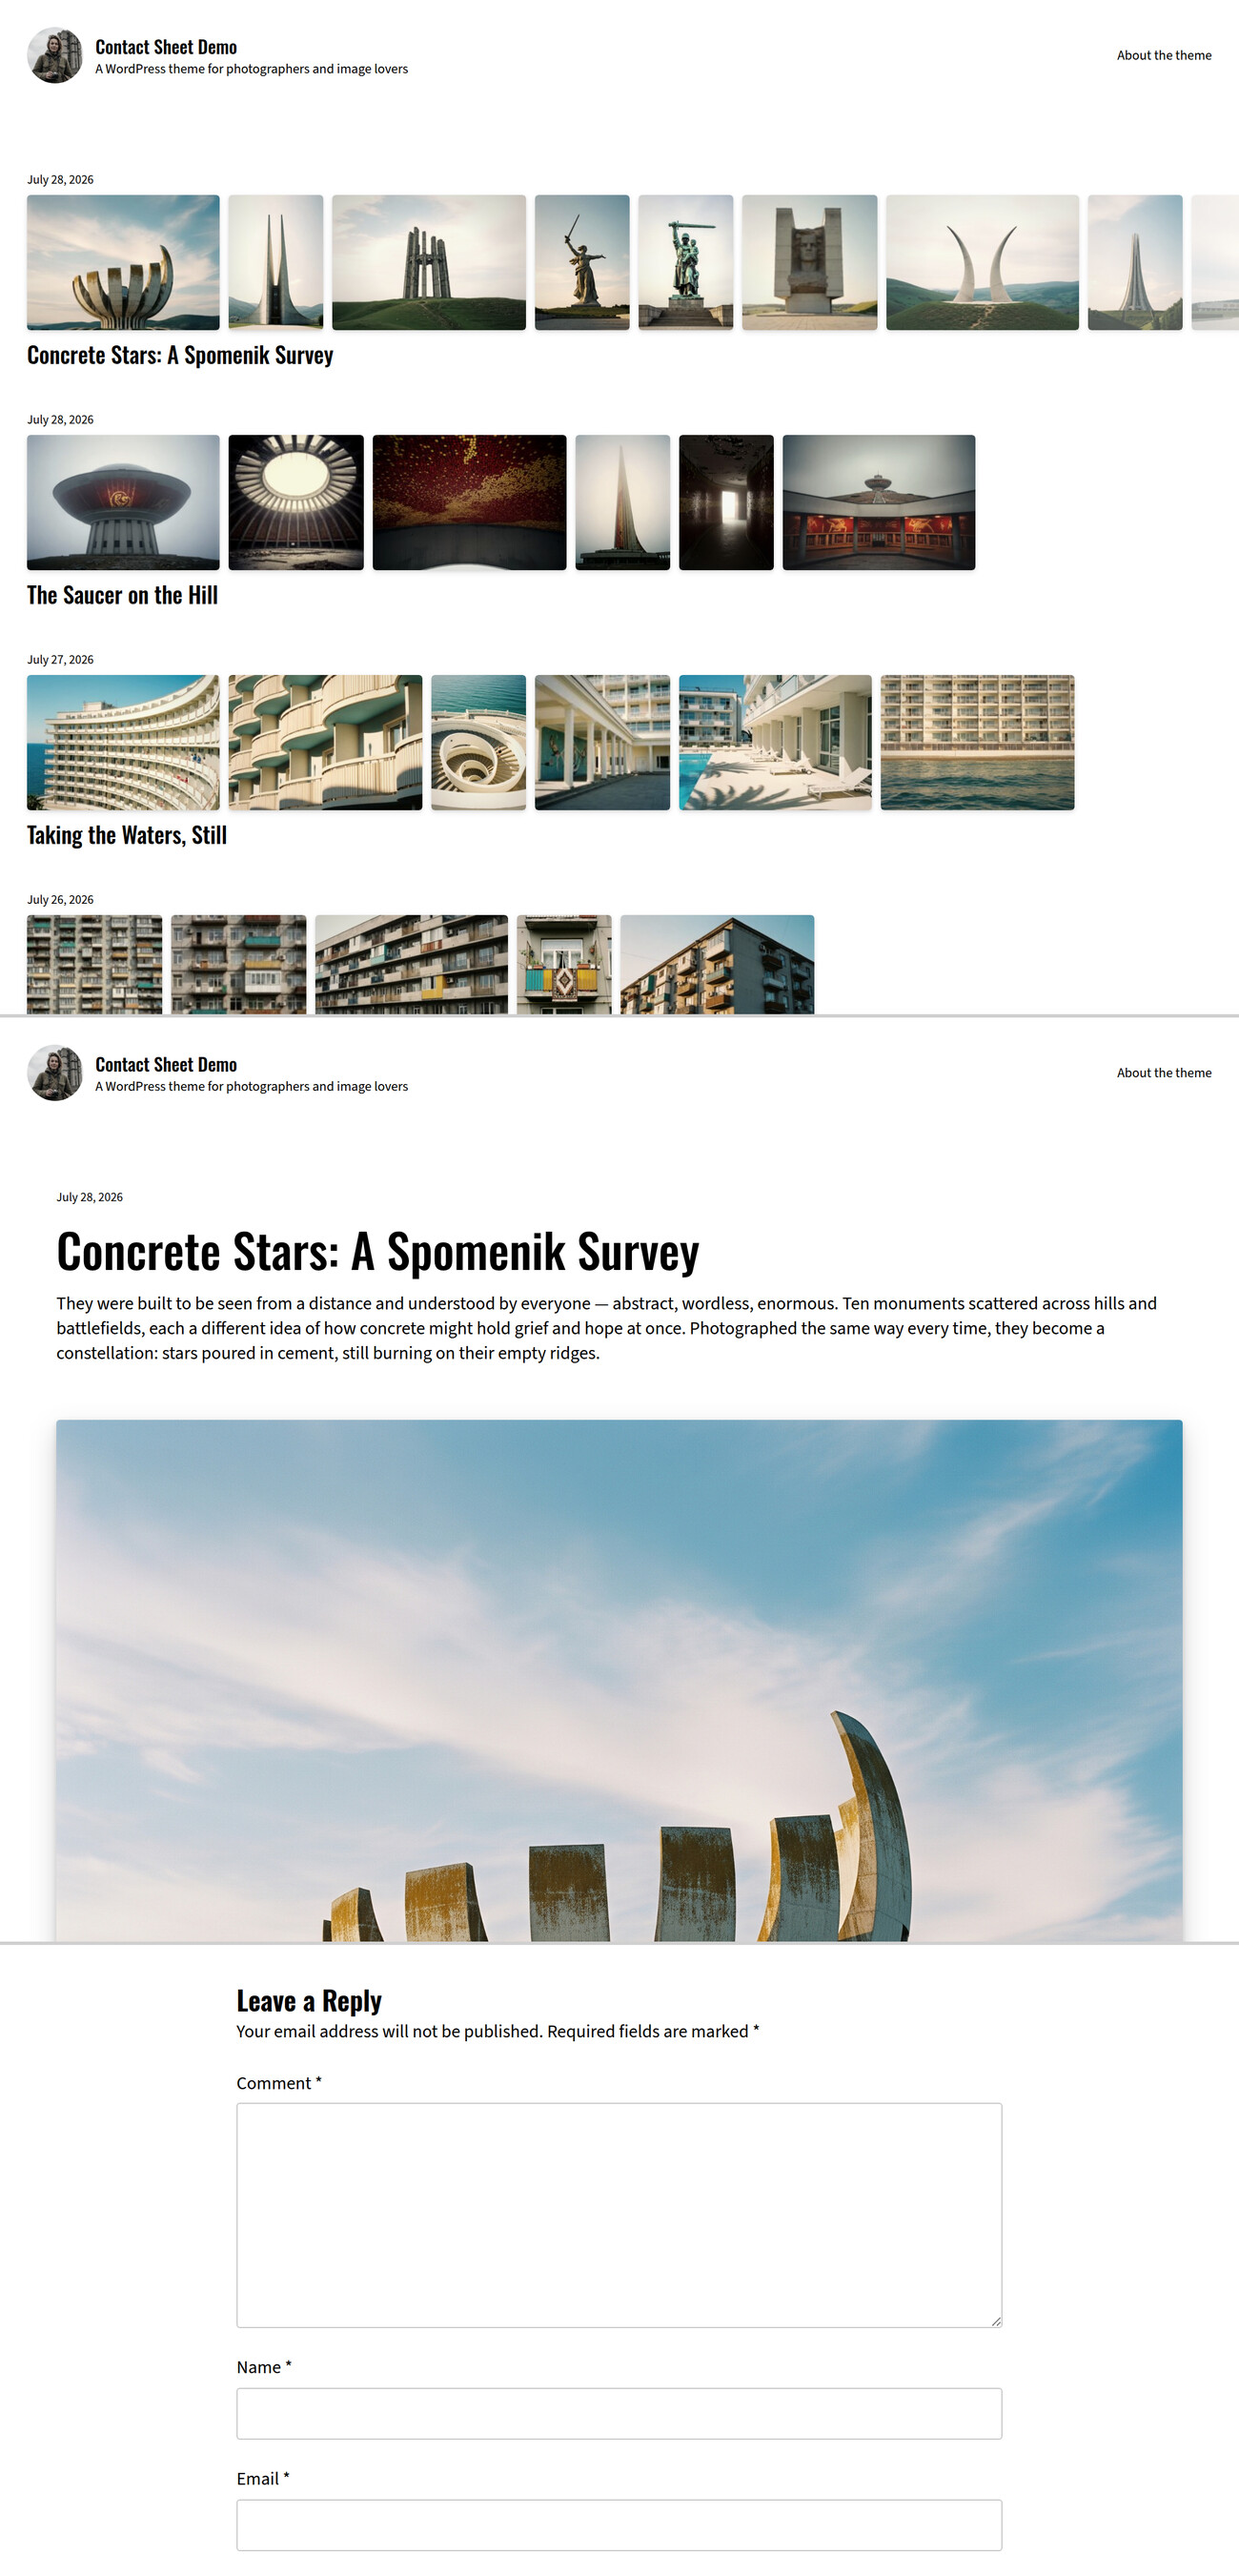
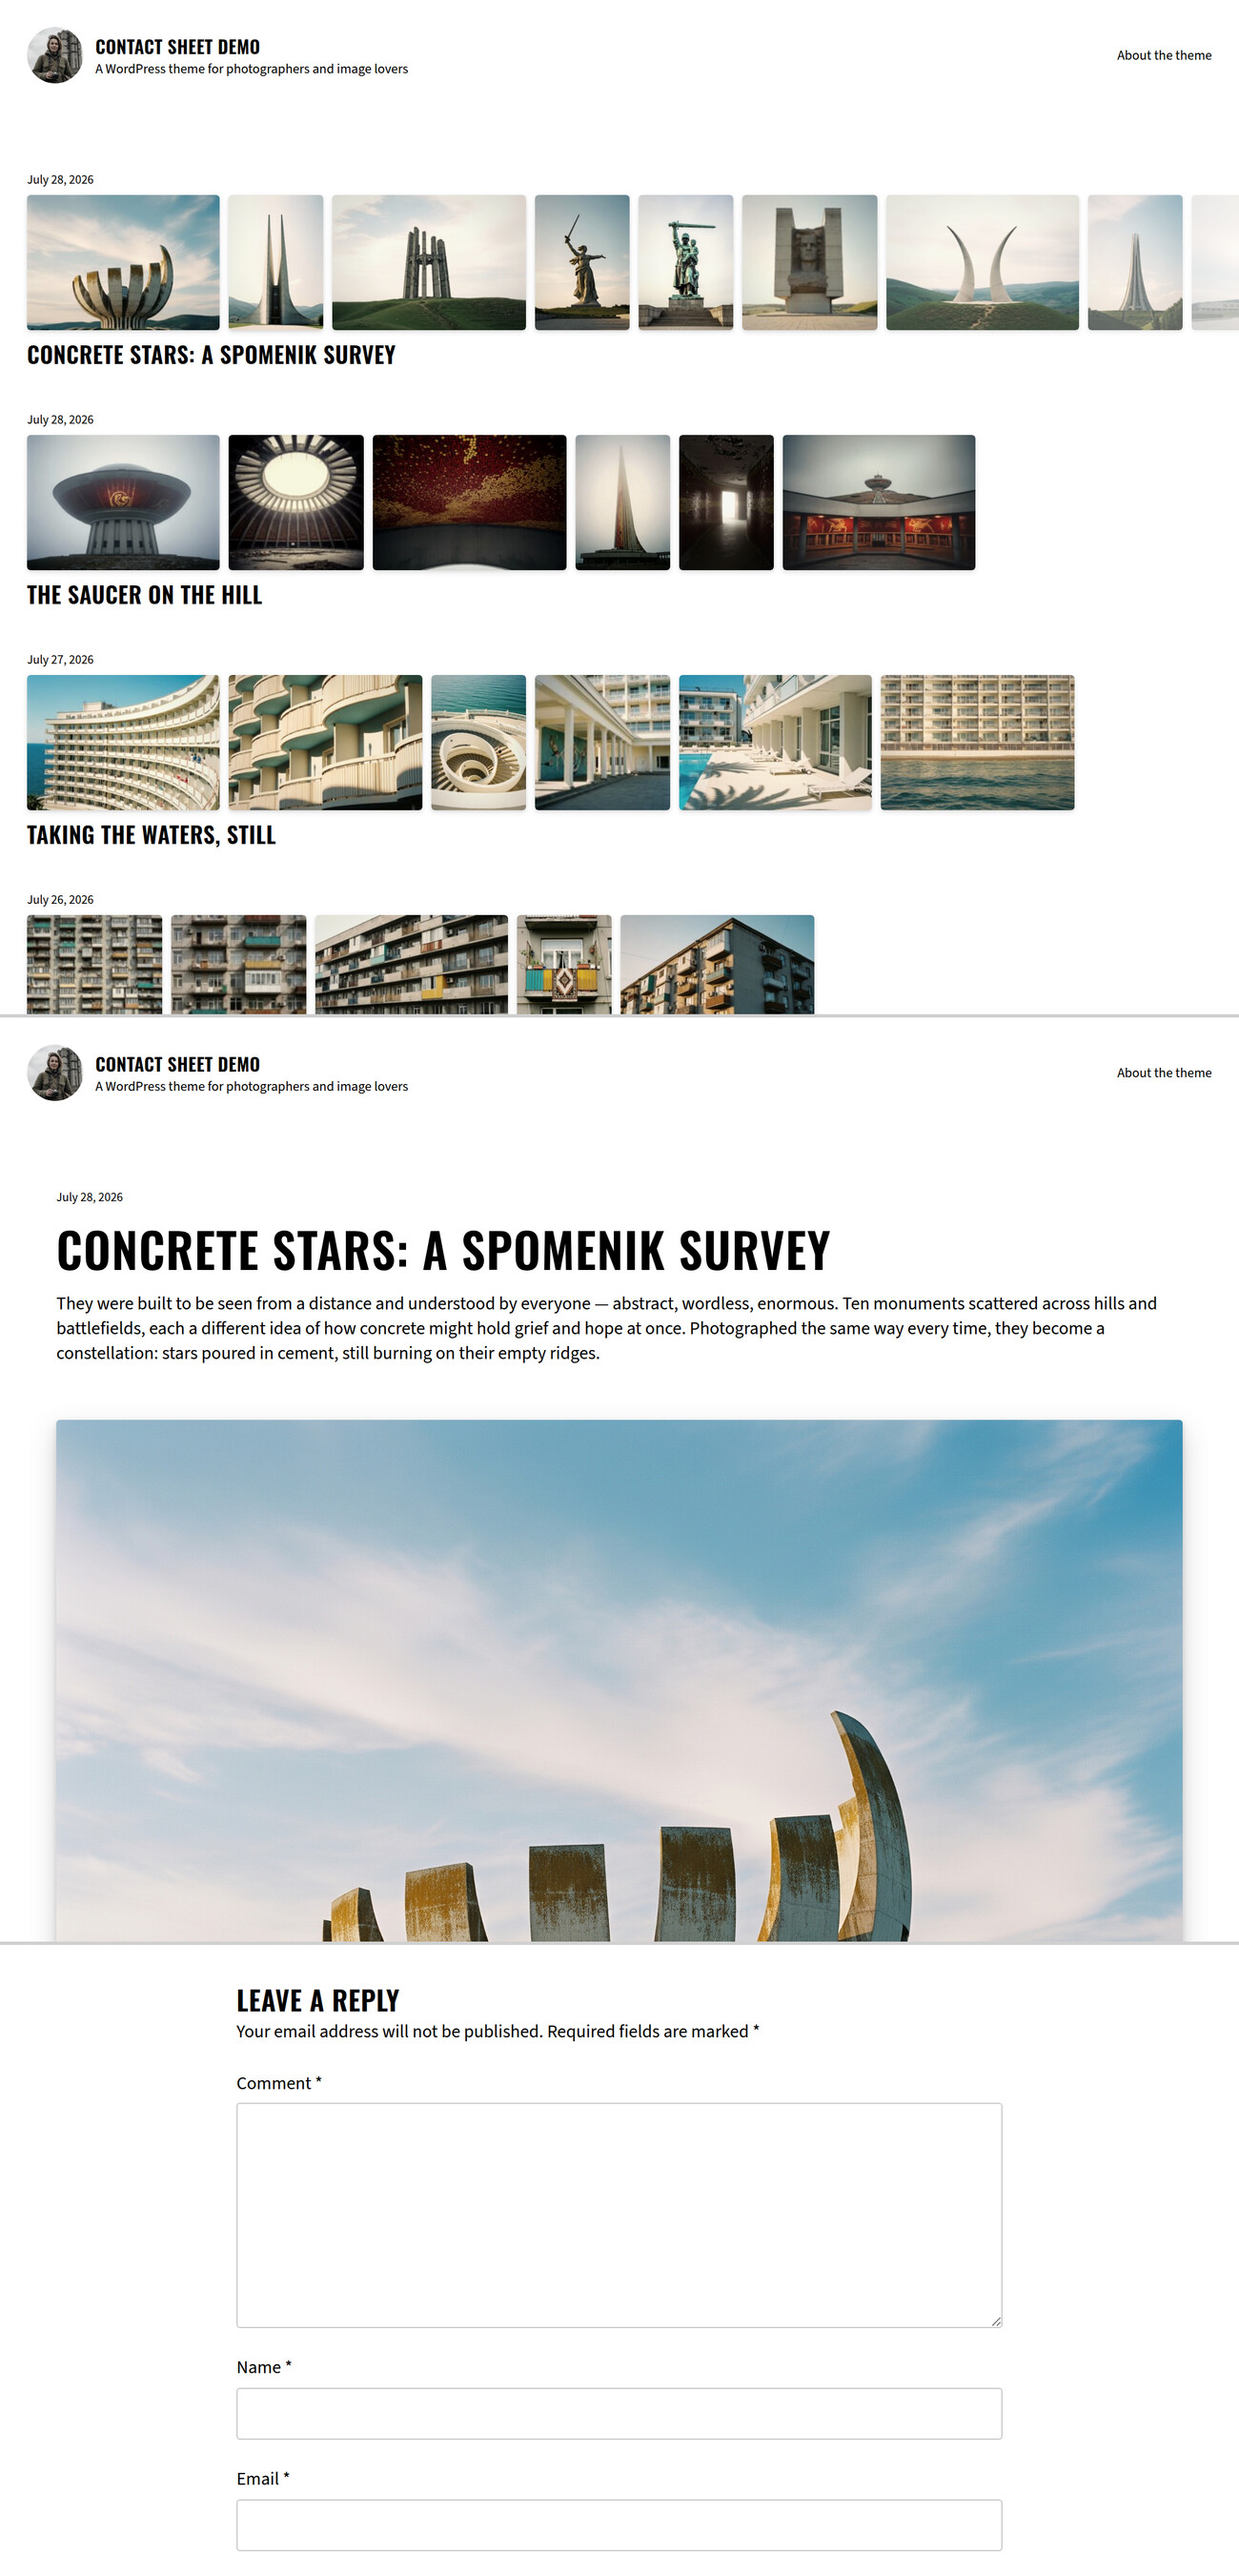
Differentiate heading weights and treatments across typography variations
All eight variations previously set their headings at a similar bold
weight, so the pairings looked alike at a glance. Spread the heading
weights across the range and give each variation a distinct treatment:

- Contact Print: uppercase letterspaced site title; dates in IBM Plex
  Mono 400 like frame-edge stamps
- Monograph: Playfair Display at 500 for a refined art-book display
- Reportage: Libre Franklin at 800 with tight tracking, broadsheet style
- Gallery: Archivo at 500 with slight tightening; uppercase wide-tracked
  site title like gallery wall signage
- Darkroom: Oswald at 600, uppercase letterspaced headings (signage)
- Field Notes: Bitter at 800 for a sturdy slab stamp
- Studio: italic DM Serif Display site title (already-bundled italic)
- Large Format: Fraunces at 380, the light high-contrast display slot

Screenshots and the README grid retaken accordingly.

diff --git a/README.md b/README.md
@@ -61,16 +61,20 @@ each pair a heading face with a body face, bundled as woff2 files so no
 third-party requests are made. Combine any of them with any color variation in
 **Appearance → Editor → Styles**.
 
+Heading weights and treatments are deliberately spread across the range — from
+Fraunces Light to Libre Franklin ExtraBold — so each variation has its own
+voice:
+
 | Variation | Headings | Body |
 |---|---|---|
-| Contact Print | IBM Plex Mono | IBM Plex Sans |
-| Monograph | Playfair Display | EB Garamond |
-| Reportage | Libre Franklin | PT Serif |
-| Gallery | Archivo | Inter |
-| Darkroom | Oswald | Source Sans 3 |
-| Field Notes | Bitter | Karla |
-| Studio | DM Serif Display | DM Sans |
-| Large Format | Fraunces | Work Sans |
+| Contact Print | IBM Plex Mono 600, uppercase site title, monospaced dates | IBM Plex Sans |
+| Monograph | Playfair Display 500 | EB Garamond |
+| Reportage | Libre Franklin 800, tight tracking | PT Serif |
+| Gallery | Archivo 500, uppercase wide-tracked site title | Inter |
+| Darkroom | Oswald 600, uppercase | Source Sans 3 |
+| Field Notes | Bitter 800 | Karla |
+| Studio | DM Serif Display 400, italic site title | DM Sans |
+| Large Format | Fraunces 380 (light) | Work Sans |
 
 ![Typography variations](screenshots/typography-variations.png)
 
